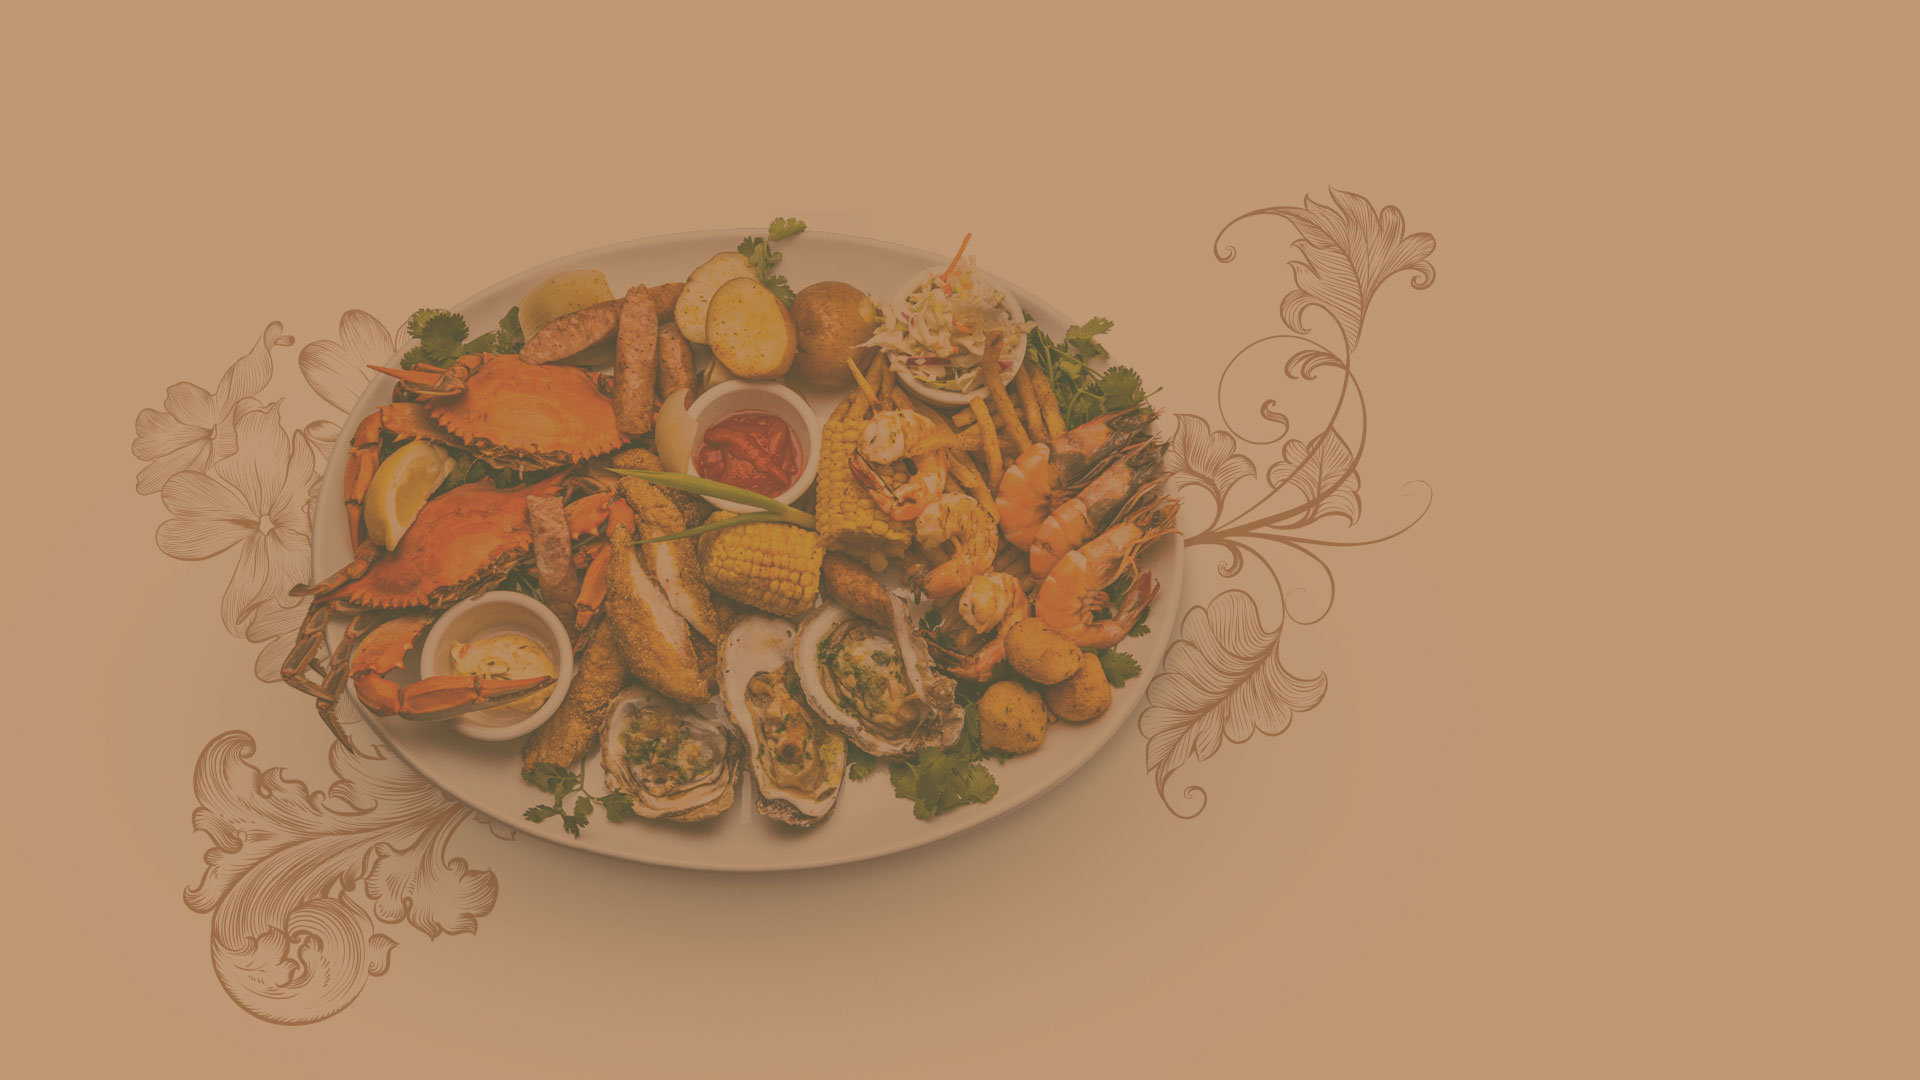
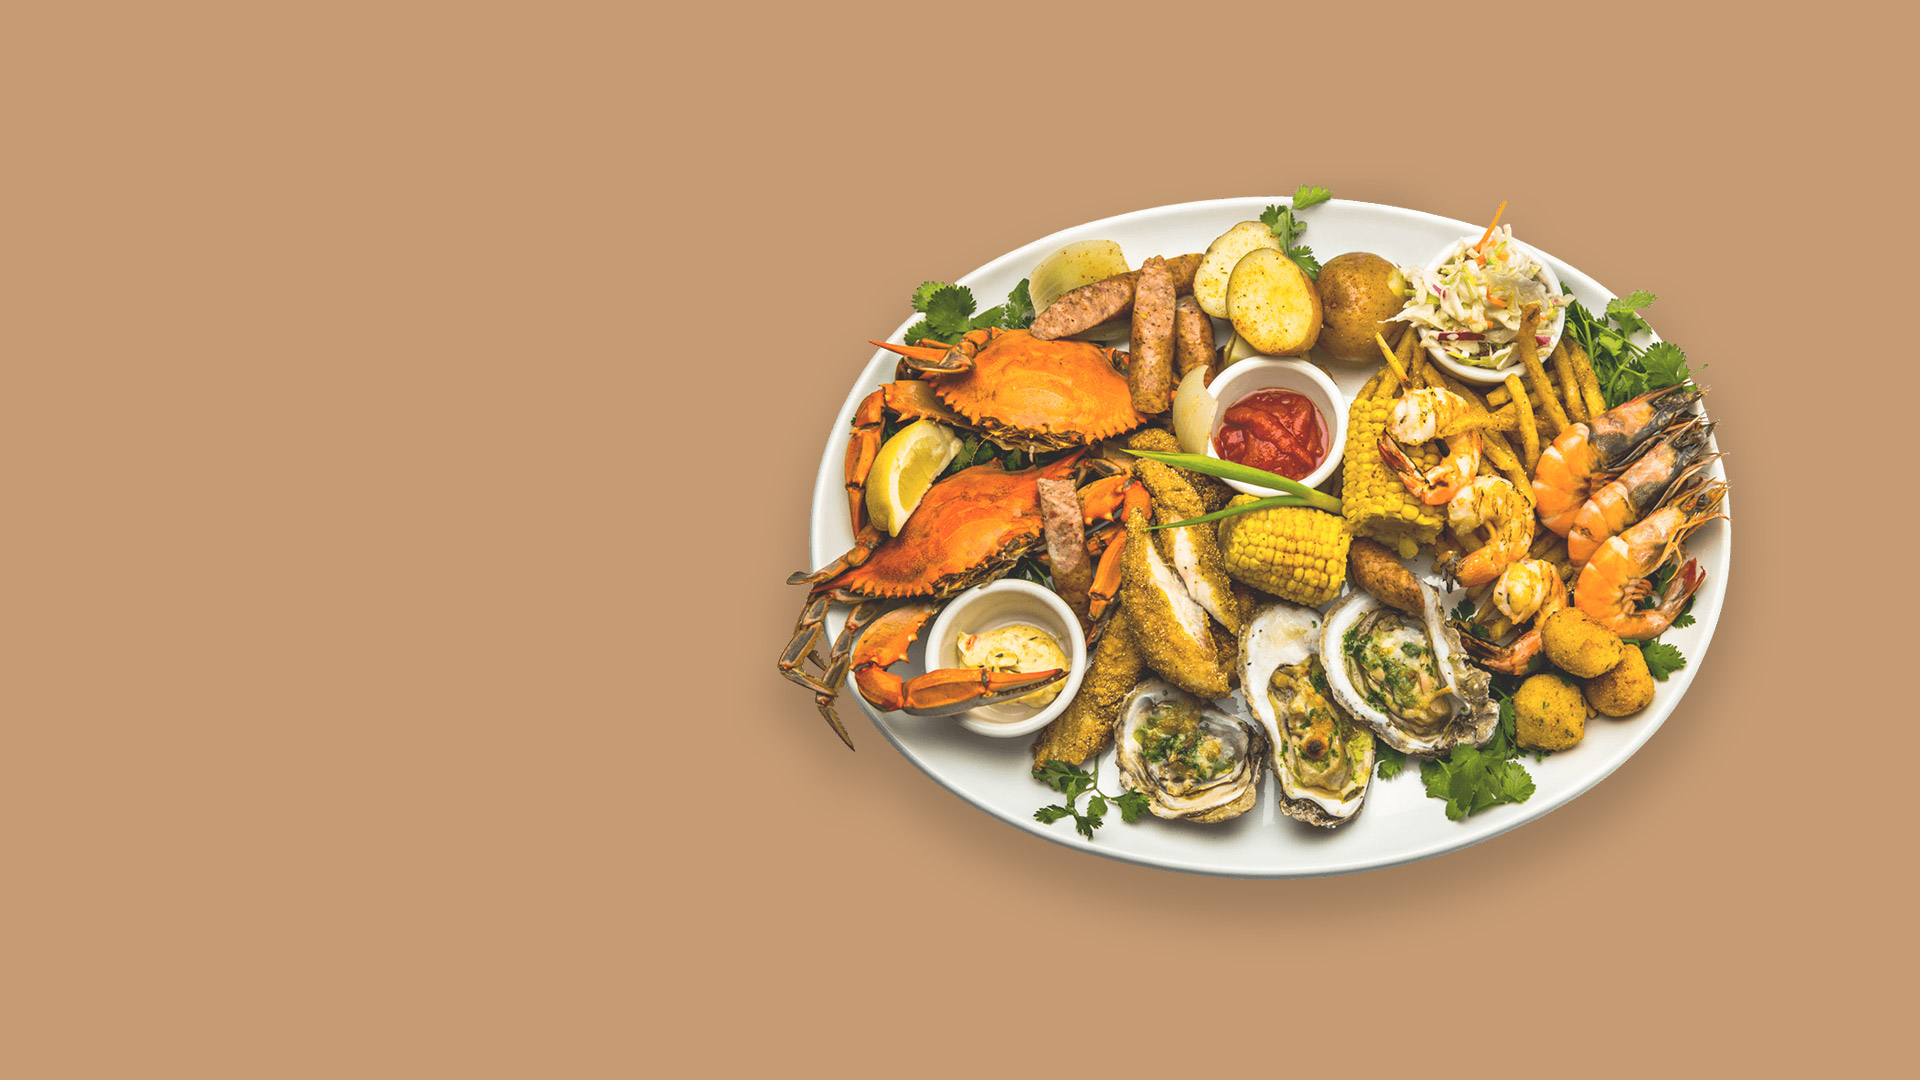
restyling home slider

diff --git a/src/files/css/style.css b/src/files/css/style.css
@@ -2830,7 +2830,7 @@ h4 {
   margin: auto;
   overflow-x: hidden;
   overflow-y: auto;
-  background: #d1d1d1;
+  background: #f4f4f4;
   -webkit-transition: all 700ms cubic-bezier(0.215, 0.61, 0.355, 1);
   -moz-transition: all 700ms cubic-bezier(0.215, 0.61, 0.355, 1);
   transition: all 700ms cubic-bezier(0.215, 0.61, 0.355, 1);
@@ -2963,10 +2963,10 @@ h4 {
 
 body.dark-page [page] {
   background-color: #111;
-  color: #d1d1d1; }
+  color: #f4f4f4; }
 
 body.dark-page .close span:before, body.dark-page .close span:after {
-  background: #d1d1d1; }
+  background: #f4f4f4; }
 
 /***blend modes***/
 .blend-color {
@@ -3051,7 +3051,7 @@ b {
   font-size: 11px;
   letter-spacing: 0.17em; }
   .scroll-down.light {
-    color: #d1d1d1; }
+    color: #f4f4f4; }
   .scroll-down.dark {
     color: #222; }
   .scroll-down i {
@@ -3134,8 +3134,8 @@ tiny-space {
     margin-left: -10px;
     margin-right: 10px; }
   .btn.white {
-    color: #d1d1d1;
-    border-color: #d1d1d1; }
+    color: #f4f4f4;
+    border-color: #f4f4f4; }
     .btn.white:hover {
       border-color: rgba(255, 255, 255, 0.2);
       background: rgba(255, 255, 255, 0.1); }
@@ -3831,17 +3831,13 @@ body.active .lines {
     height: 100%; }
   .home-slide .slide-content {
     zoom: 1;
-    color: #d1d1d1;
-    text-align: center;
+    color: #f4f4f4;
+    text-align: left;
     position: absolute;
     top: 50%;
-    left: 50%;
+    left: 16.8%;
     width: 70vw;
-    max-width: 900px;
-    transform: translate(-50%, 0);
-    -moz-transform: translate(-50%, 0);
-    -webkit-transform: translate(-50%, 0);
-    -ms-transform: translate(-50%, 0); }
+    max-width: 33.3vw; }
     .home-slide .slide-content:before, .home-slide .slide-content:after {
       content: "\0020";
       display: block;
@@ -3867,14 +3863,15 @@ body.active .lines {
         -ms-transform: translate(0, 0); }
     .home-slide .slide-content h1 {
       font-family: "evelethclean_regular", sans-serif;
-      font-size: 16.4vmin;
+      font-size: 12.4vmin;
       line-height: 0.7em;
-      letter-spacing: -0.02em; }
+      letter-spacing: -0.02em;
+      max-width: 400px; }
       .home-slide .slide-content h1 span {
         white-space: normal; }
     .home-slide .slide-content h2 {
       clear: right;
-      font-size: 2.5vmin;
+      font-size: 2vmin;
       line-height: 1.2em; }
     .home-slide .slide-content .btn {
       margin-top: 2.2vmin; }
@@ -3892,7 +3889,7 @@ body.active .lines {
 
 /****home slider navigation****/
 .home-slider .owl-buttons {
-  color: #d1d1d1;
+  color: #f4f4f4;
   position: absolute;
   top: 50%;
   right: 2.2vmin;
@@ -3989,7 +3986,7 @@ body.active .lines {
     width: 10vmin;
     max-width: 100px;
     min-width: 65px;
-    fill: #d1d1d1;
+    fill: #f4f4f4;
     height: 25px; }
 
 .hamburger {
@@ -4004,13 +4001,13 @@ body.active .lines {
     width: 100%;
     height: 1px;
     margin-top: -1px;
-    background: #d1d1d1; }
+    background: #f4f4f4; }
     .hamburger span:before, .hamburger span:after {
       content: '';
       position: absolute;
       width: 100%;
       height: 1px;
-      background: #d1d1d1;
+      background: #f4f4f4;
       -webkit-transition: all 0.3s cubic-bezier(0.215, 0.61, 0.355, 1);
       -moz-transition: all 0.3s cubic-bezier(0.215, 0.61, 0.355, 1);
       transition: all 0.3s cubic-bezier(0.215, 0.61, 0.355, 1);
@@ -4022,13 +4019,13 @@ body.active .lines {
 
 /***color when page opened***/
 [data-trigger="main-menu"].active .logo svg {
-  fill: #d1d1d1 !important; }
+  fill: #f4f4f4 !important; }
 
 [data-trigger="main-menu"].active .hamburger span {
   background: transparent !important; }
   [data-trigger="main-menu"].active .hamburger span:before, [data-trigger="main-menu"].active .hamburger span:after {
     top: 50%;
-    background: #d1d1d1 !important; }
+    background: #f4f4f4 !important; }
   [data-trigger="main-menu"].active .hamburger span:before {
     transform: rotate(-45deg);
     -moz-transform: rotate(-45deg);
@@ -4049,7 +4046,7 @@ body.active .lines {
   height: calc(100vh - 0vmin);
   background: #111;
   overflow: hidden;
-  color: #d1d1d1;
+  color: #f4f4f4;
   transform-origin: 0 0;
   transform: scale(0, 1);
   -moz-transform: scale(0, 1);
@@ -4058,7 +4055,7 @@ body.active .lines {
   visibility: hidden;
   transition: all 800ms cubic-bezier(0.215, 0.61, 0.355, 1); }
   .main-menu a {
-    color: #d1d1d1; }
+    color: #f4f4f4; }
   .main-menu li {
     position: relative;
     float: left;
@@ -4094,7 +4091,7 @@ body.active .lines {
       width: 100px;
       max-width: 100%;
       height: 1px;
-      background: #d1d1d1;
+      background: #f4f4f4;
       display: block;
       margin-top: 10px;
       -webkit-transition: all 0.4s cubic-bezier(0.215, 0.61, 0.355, 1);
@@ -4189,7 +4186,7 @@ body.active .lines {
 
 @media screen and (max-width: 1200px) {
   .close span:before, .close span:after {
-    background: #d1d1d1; } }
+    background: #f4f4f4; } }
 
 @media screen and (max-width: 900px) {
   .main-menu {

diff --git a/src/files/scss/home-slider.scss b/src/files/scss/home-slider.scss
@@ -101,13 +101,13 @@ body.active .lines{
   .slide-content{
     @include clearfix;
     color: $light-grey;
-    text-align: center;
+    text-align: left;
     position: absolute;
     top: 50%;
-    left: 50%;
+    left: 16.8%;
     width: 70vw;
-    max-width: 900px;
-    @include translate(-50%, 0);
+    max-width: 33.3vw;
+//    @include translate(-50%, 0);
 
     .slide-content-txt{
       opacity: 0;
@@ -121,9 +121,10 @@ body.active .lines{
 
     h1{
       font-family: $strong;
-      font-size: 16.4vmin;
+      font-size: 12.4vmin;
       line-height: 0.7em;
       letter-spacing: -0.02em;
+      max-width: 400px;
 //      white-space: nowrap;
       span{
         white-space: normal;
@@ -131,7 +132,7 @@ body.active .lines{
     }
     h2{
       clear: right;
-      font-size: 2.5vmin;
+      font-size: 2vmin;
       line-height: 1.2em;
     }
     .btn{

diff --git a/src/files/scss/variables.scss b/src/files/scss/variables.scss
@@ -32,7 +32,7 @@ $loader-img-size: 200px;
 $main: #3c64ff;
 $dark: #222;
 $darker: #111;
-$light-grey: #d1d1d1;
+$light-grey: #f4f4f4;
 $lightest-grey: #fbfbfb;
 $white: #fff;
 
